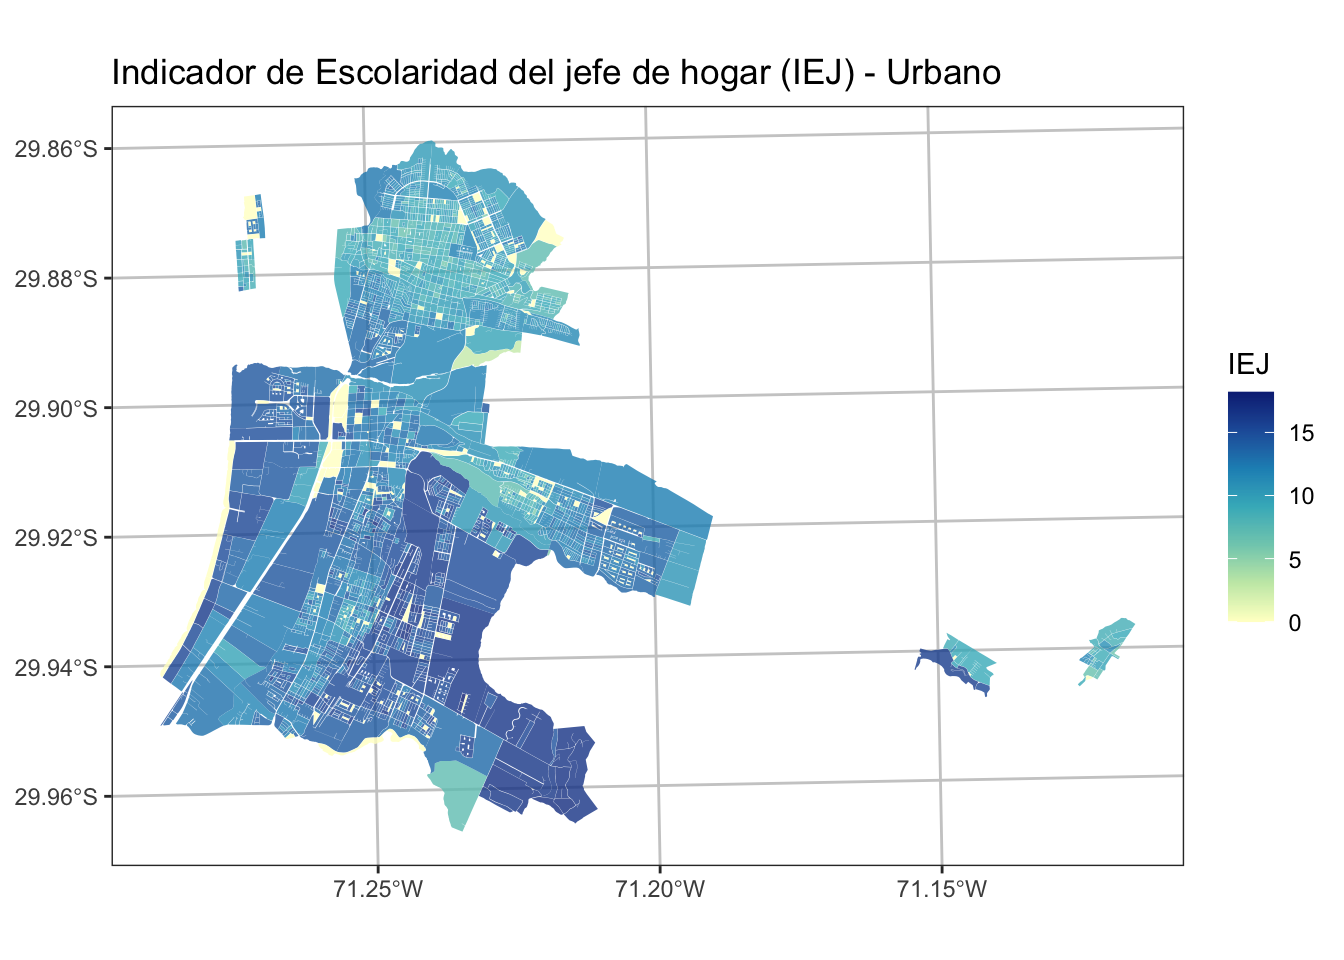
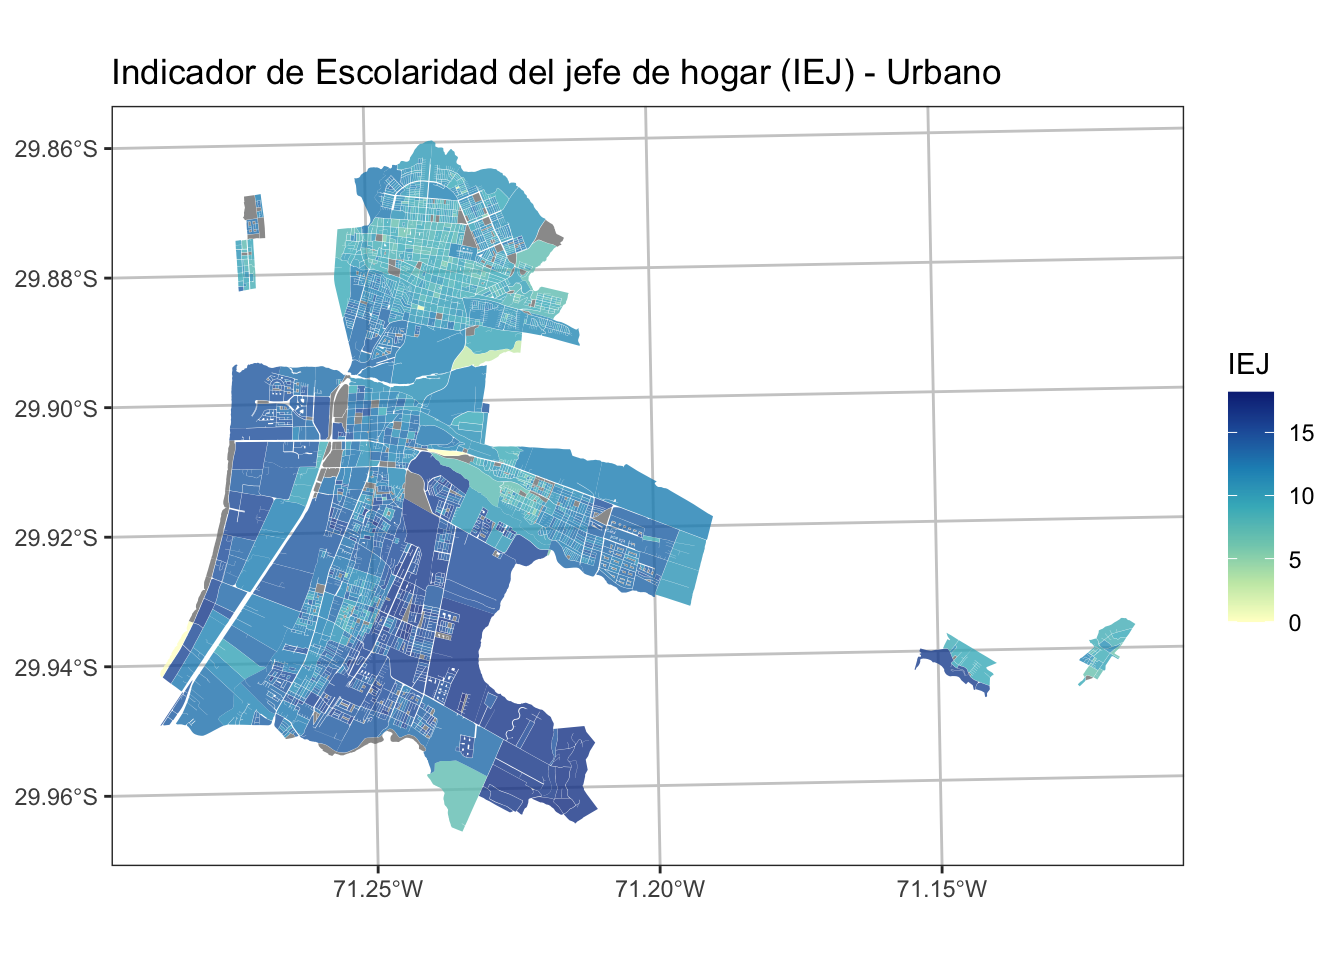
Built site for gh-pages

diff --git a/datos_vectoriales.html b/datos_vectoriales.html
@@ -656,13 +656,13 @@ First 10 features:
 <div class="cell">
 <div class="sourceCode cell-code" id="cb9"><pre class="sourceCode r code-with-copy"><code class="sourceCode r"><span id="cb9-1"><a href="#cb9-1" aria-hidden="true" tabindex="-1"></a>zonas <span class="ot">&lt;-</span>  zonas <span class="sc">%&gt;%</span> </span>
 <span id="cb9-2"><a href="#cb9-2" aria-hidden="true" tabindex="-1"></a>  <span class="fu">left_join</span>(tab_com, <span class="at">by =</span> <span class="st">"NOM_COMUNA"</span>) <span class="sc">%&gt;%</span> <span class="co"># Ojo con las veces que se hace esta operación</span></span>
-<span id="cb9-3"><a href="#cb9-3" aria-hidden="true" tabindex="-1"></a>  <span class="fu">mutate</span>(<span class="at">DIF_EJH_COM =</span> <span class="fu">round</span>((ESC_JH_COM<span class="sc">-</span> ESC_JH), <span class="dv">2</span>))</span></code><button title="Copy to Clipboard" class="code-copy-button"><i class="bi"></i></button></pre></div>
+<span id="cb9-3"><a href="#cb9-3" aria-hidden="true" tabindex="-1"></a>  <span class="fu">mutate</span>(<span class="at">DIF_EJH_COM =</span> <span class="fu">round</span>(( ESC_JH<span class="sc">-</span>ESC_JH_COM), <span class="dv">2</span>))</span></code><button title="Copy to Clipboard" class="code-copy-button"><i class="bi"></i></button></pre></div>
 </div>
 <div class="cell page-columns page-full">
 <div class="sourceCode cell-code" id="cb10"><pre class="sourceCode r code-with-copy"><code class="sourceCode r"><span id="cb10-1"><a href="#cb10-1" aria-hidden="true" tabindex="-1"></a><span class="fu">ggplot</span>() <span class="sc">+</span></span>
 <span id="cb10-2"><a href="#cb10-2" aria-hidden="true" tabindex="-1"></a>  <span class="fu">geom_sf</span>(<span class="at">data =</span> zonas, <span class="fu">aes</span>(<span class="at">fill =</span> DIF_EJH_COM), <span class="at">color =</span><span class="cn">NA</span>, </span>
 <span id="cb10-3"><a href="#cb10-3" aria-hidden="true" tabindex="-1"></a>          <span class="at">alpha=</span><span class="fl">0.8</span>,  <span class="at">size=</span> <span class="fl">0.1</span>)<span class="sc">+</span></span>
-<span id="cb10-4"><a href="#cb10-4" aria-hidden="true" tabindex="-1"></a>  <span class="fu">scale_fill_distiller</span>(<span class="at">palette=</span> <span class="st">"YlGnBu"</span>, <span class="at">direction =</span> <span class="dv">1</span>)<span class="sc">+</span></span>
+<span id="cb10-4"><a href="#cb10-4" aria-hidden="true" tabindex="-1"></a>  <span class="fu">scale_fill_distiller</span>(<span class="at">palette=</span> <span class="st">"PRGn"</span>, <span class="at">direction =</span> <span class="dv">1</span>)<span class="sc">+</span></span>
 <span id="cb10-5"><a href="#cb10-5" aria-hidden="true" tabindex="-1"></a>  <span class="fu">ggtitle</span>(<span class="st">"Diferencias Esc. Jefe Hogar Zona/Comuna - Urbano"</span> ) <span class="sc">+</span></span>
 <span id="cb10-6"><a href="#cb10-6" aria-hidden="true" tabindex="-1"></a>  <span class="fu">theme_bw</span>() <span class="sc">+</span></span>
 <span id="cb10-7"><a href="#cb10-7" aria-hidden="true" tabindex="-1"></a>  <span class="fu">theme</span>(<span class="at">panel.grid.major =</span> <span class="fu">element_line</span>(<span class="at">colour =</span> <span class="st">"gray80"</span>), </span>
@@ -688,7 +688,7 @@ First 10 features:
 <div class="sourceCode cell-code" id="cb12"><pre class="sourceCode r code-with-copy"><code class="sourceCode r"><span id="cb12-1"><a href="#cb12-1" aria-hidden="true" tabindex="-1"></a><span class="fu">ggplot</span>() <span class="sc">+</span></span>
 <span id="cb12-2"><a href="#cb12-2" aria-hidden="true" tabindex="-1"></a>  <span class="fu">geom_sf</span>(<span class="at">data =</span> zonas, <span class="fu">aes</span>(<span class="at">fill =</span> DIF_EJH_COM), <span class="at">color =</span><span class="cn">NA</span>, </span>
 <span id="cb12-3"><a href="#cb12-3" aria-hidden="true" tabindex="-1"></a>          <span class="at">alpha=</span><span class="fl">0.3</span>,  <span class="at">size=</span> <span class="fl">0.1</span>)<span class="sc">+</span></span>
-<span id="cb12-4"><a href="#cb12-4" aria-hidden="true" tabindex="-1"></a>  <span class="fu">scale_fill_distiller</span>(<span class="at">palette=</span> <span class="st">"YlGnBu"</span>, <span class="at">direction =</span> <span class="dv">1</span>)<span class="sc">+</span></span>
+<span id="cb12-4"><a href="#cb12-4" aria-hidden="true" tabindex="-1"></a>  <span class="fu">scale_fill_distiller</span>(<span class="at">palette=</span> <span class="st">"PRGn"</span>, <span class="at">direction =</span> <span class="dv">1</span>)<span class="sc">+</span></span>
 <span id="cb12-5"><a href="#cb12-5" aria-hidden="true" tabindex="-1"></a>  <span class="fu">geom_sf</span>(<span class="at">data =</span> valpo_com,  <span class="at">color =</span><span class="st">"magenta"</span>, <span class="at">alpha=</span><span class="dv">1</span>,  <span class="at">size=</span> <span class="dv">1</span>, <span class="at">fill =</span> <span class="cn">NA</span>)<span class="sc">+</span></span>
 <span id="cb12-6"><a href="#cb12-6" aria-hidden="true" tabindex="-1"></a>  <span class="fu">ggtitle</span>(<span class="st">"Resaltar la comuna de Valparaíso"</span> ) <span class="sc">+</span></span>
 <span id="cb12-7"><a href="#cb12-7" aria-hidden="true" tabindex="-1"></a>  <span class="fu">theme_bw</span>() <span class="sc">+</span></span>
@@ -1098,9 +1098,9 @@ First 10 features:
 <h2 data-number="3.5" class="anchored" data-anchor-id="indicador-de-escolaridad-del-jefe-de-hogar-iej"><span class="header-section-number">3.5</span> Indicador de Escolaridad del jefe de hogar (IEJ)</h2>
 <p>Para la construcción de este indicador se utilizó el promedio de años de estudio de jefes de hogar (EJH), que es una variable censal numérica (“ESCOLARIDAD”, en tabla de personas del censo 2017) que registra el nivel del curso más alto aprobado, medida en años sucesivos desde la enseñanza básica hasta estudios de postgrado.</p>
 <p>Se calcula el promedio de esta variable para todos los jefes de hogar en cada manzana. Esta variable es representativa del capital cultural de cada hogar y está altamente correlacionada con el nivel de ingresos en Chile (Agostini et al, 2016).</p>
-<p>** Cálculo Indicador de Escolaridad del jefe de hogar (IEJ)**</p>
+<p><strong>Cálculo Indicador de Escolaridad del jefe de hogar (IEJ)</strong></p>
 <div class="cell">
-<div class="sourceCode cell-code" id="cb17"><pre class="sourceCode r code-with-copy"><code class="sourceCode r"><span id="cb17-1"><a href="#cb17-1" aria-hidden="true" tabindex="-1"></a>censo <span class="ot">&lt;-</span> censo <span class="sc">%&gt;%</span> <span class="fu">mutate</span>( <span class="at">IEJ =</span> ESCOLAR)</span></code><button title="Copy to Clipboard" class="code-copy-button"><i class="bi"></i></button></pre></div>
+<div class="sourceCode cell-code" id="cb17"><pre class="sourceCode r code-with-copy"><code class="sourceCode r"><span id="cb17-1"><a href="#cb17-1" aria-hidden="true" tabindex="-1"></a>censo <span class="ot">&lt;-</span> censo <span class="sc">%&gt;%</span> <span class="fu">mutate</span>( <span class="at">IEJ =</span> <span class="fu">ifelse</span>(PERSONAS <span class="sc">==</span><span class="dv">0</span>, <span class="cn">NA</span>, ESCOLAR))</span></code><button title="Copy to Clipboard" class="code-copy-button"><i class="bi"></i></button></pre></div>
 </div>
 <p>Para efectos de visualización se enfocará los resultados en las zonas urbanas de la comuna de La Serena en todos los indicadores que se presentarán.</p>
 <div class="cell">
@@ -1157,7 +1157,7 @@ First 10 features:
 <h2 data-number="3.6" class="anchored" data-anchor-id="indicador-de-empleo-iem"><span class="header-section-number">3.6</span> Indicador de Empleo (IEM)</h2>
 <p>Para este indicador se usó la proporción de población activa sin empleo que es la fracción de las personas que no tienen empleo y están buscando uno, respecto al total de personas en condiciones y con deseo de trabajar en cada manzana.</p>
 <p>Esta variable es similar al cálculo de desempleo, pero calculada a escala de manzanas y en un tiempo específico, por lo que representa las brechas potenciales que existen para acceder al empleo en barrios específicos (MDS, 2019).</p>
-<p>** Cálculo Indicador de Empleo (IEM) **</p>
+<p><strong>Cálculo Indicador de Empleo (IEM) </strong></p>
 <p><strong>P17_4</strong>: Trabajo la semana pasada, <em>opción 4</em>: “Se encontraba buscando empleo”<br>
 <strong>P17_ACT</strong>: Total de Actividades Remuneradas (no es pregunta del Censo)</p>
 <div class="cell">
@@ -1203,7 +1203,7 @@ First 10 features:
 <p>Para la construcción de este indicador se utilizó la proporción de jóvenes entre 14 y 24 años que no trabajan ni estudian: es la fracción de jóvenes en este rango edad que no trabajan ni estudian, respecto al total de este segmento etario en cada manzana.</p>
 <p>Esta variable representa un riesgo de exclusión socioeconómica en el período de transición entre el ambiente educativo y el laboral, siendo característico de trayectorias de deserción escolar que conducen al desempleo y que podrían incrementar el riesgo de adopción de comportamientos delictivos (MDS, 2019).</p>
 <p>Luego, el indicador se normalizó con su inverso aditivo, para asegurar que el valor máximo, sea lo más deseable y el 0 lo menos deseable, convirtiéndose así en un indicador de empleo.</p>
-<p>** Cálculo Indicador de Participación Juvenil en empleo y estudio (IPJ) **</p>
+<p><strong>Cálculo Indicador de Participación Juvenil en empleo y estudio (IPJ) </strong></p>
 <p><strong>J_NINI</strong>: Jóvenes que no trabajan ni estudian P17 <strong>E15A24</strong>: Jóvenes entre 15 y 24 años de edad</p>
 <div class="cell">
 <div class="sourceCode cell-code" id="cb26"><pre class="sourceCode r code-with-copy"><code class="sourceCode r"><span id="cb26-1"><a href="#cb26-1" aria-hidden="true" tabindex="-1"></a>censo <span class="ot">&lt;-</span> censo <span class="sc">%&gt;%</span> <span class="fu">mutate</span>( <span class="at">NINI_DENS =</span> J_NINI <span class="sc">/</span> E15A24)  </span>
@@ -1243,7 +1243,7 @@ First 10 features:
 <p>En suma, el Indicador de Resiliencia de Hogares (en base a la monoparentalidad), en complemento a otras variables, es conceptualmente relevante para evaluar riesgos no monetarios de condiciones sociales.</p>
 <p>Este indicador es el inverso aditivo de la proporción de hogares monoparentales dentro de una manzana. Los hogares monoparentales son aquellos con hijos que viven con un solo progenitor, lo que se asocia en diversas formas a la condición social, que abarcan desde un menor ingreso, problemas de salud y delincuencia, entre otros (MDS, 2019).</p>
 <p>Al contrario, los hogares biparentales permiten el apoyo entre progenitores y los hogares sin hijos tienen menores exigencias de gasto y tiempo relacionadas con la paternidad, por lo que se considera que en general son más resilientes.</p>
-<p>** Cálculo de Indicador de Resiliencia de Hogares (IRH) **</p>
+<p><strong>Cálculo de Indicador de Resiliencia de Hogares (IRH) </strong></p>
 <p><strong>MONOPAR</strong>: Hogares Monoparentales<br>
 <strong>HOG_N</strong>: Número de Hogares</p>
 <div class="cell">
@@ -1298,7 +1298,7 @@ First 10 features:
 <li>P03C_4: Capa de cemento sobre tierra</li>
 <li>P03C_5: Tierra</li>
 </ul>
-<p>** Cálculo Indicador de Calidad de la Vivienda (IVI) **</p>
+<p><strong>Cálculo Indicador de Calidad de la Vivienda (IVI) </strong></p>
 <div class="cell">
 <div class="sourceCode cell-code" id="cb34"><pre class="sourceCode r code-with-copy"><code class="sourceCode r"><span id="cb34-1"><a href="#cb34-1" aria-hidden="true" tabindex="-1"></a>censo <span class="ot">&lt;-</span> censo <span class="sc">%&gt;%</span></span>
 <span id="cb34-2"><a href="#cb34-2" aria-hidden="true" tabindex="-1"></a>  <span class="fu">mutate</span>(<span class="at">paredes =</span> (P03A_4 <span class="sc">+</span> P03A_5 <span class="sc">+</span> P03A_6)<span class="sc">/</span>TOTAL_V,</span>
